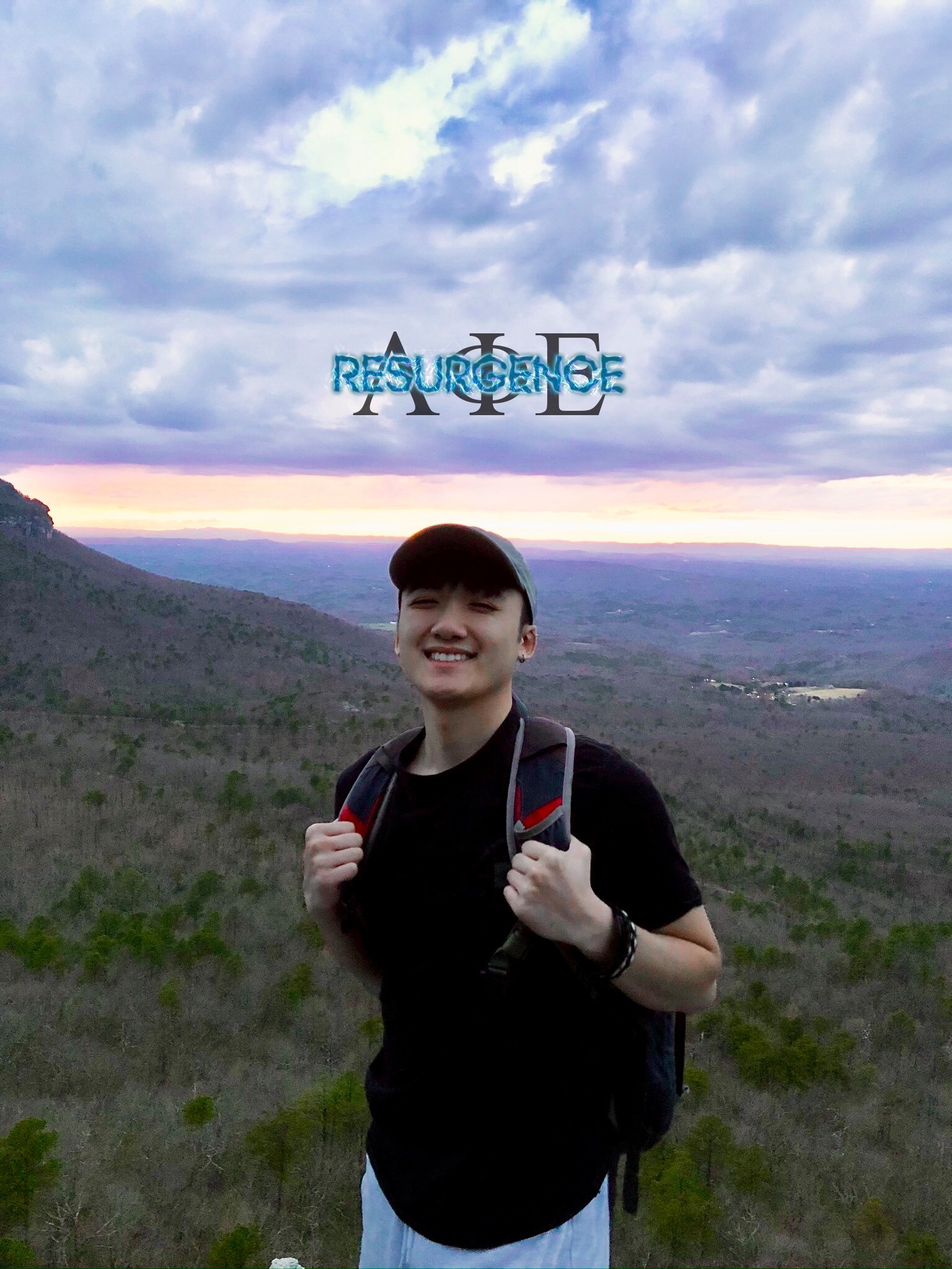
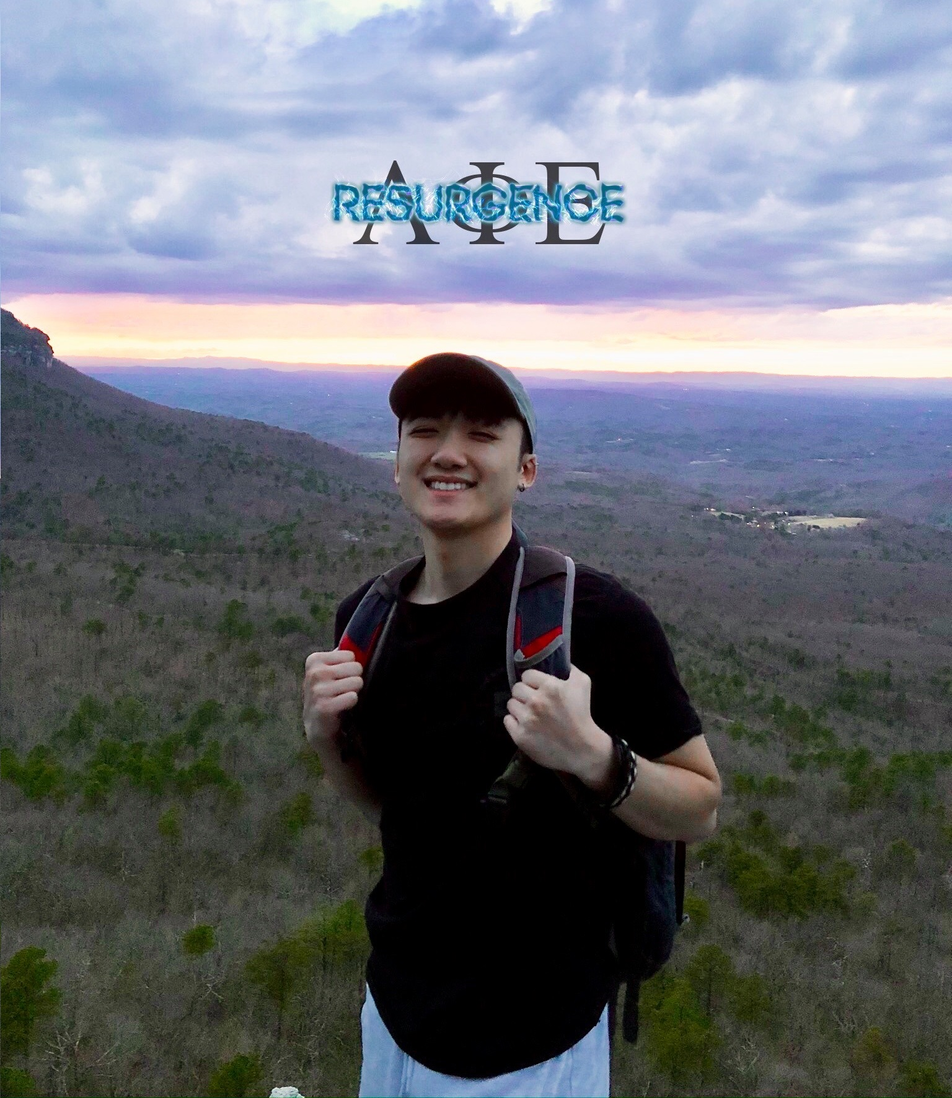
compatibility changes

diff --git a/public/assets/css/style.css b/public/assets/css/style.css
@@ -545,9 +545,15 @@ section {
 /*--------------------------------------------------------------
 # activeClass
 --------------------------------------------------------------*/
-.member img{
+.member {
+  height: 9.5vw;
+  width: 9.5vw;
+  overflow:hidden;
+}
+
+.member img {
   object-fit: cover;
-  object-position: 100% 20%;
+  object-position: 100% 10%;
 }
 
 .activeClass .activeClass-item {
@@ -628,6 +634,102 @@ section {
   .activeClass {
     margin: 30px 10px;
   }
+}
+
+.owl-stage-outer{
+  height:25vh;
+}
+
+.owl-stage{
+  height:25vh;
+}
+
+.member {
+  text-align: center;
+  margin-bottom: 20px;
+  background: #343a40;
+  position: relative;
+  overflow: hidden;
+}
+
+.member .member-info {
+  opacity: 0;
+  position: absolute;
+  bottom: 0;
+  top: 0;
+  left: 0;
+  right: 0;
+  transition: 0.2s;
+}
+
+.member .member-info-content {
+  position: absolute;
+  left: 50px;
+  right: 0;
+  bottom: 0;
+  transition: bottom 0.4s;
+}
+
+.member .member-info-content h4 {
+  font-weight: 700;
+  margin-bottom: 2px;
+  font-size: 18px;
+  color: #fff;
+}
+
+.member .member-info-content span {
+  font-style: italic;
+  display: block;
+  font-size: 13px;
+  color: #fff;
+}
+
+.member .social {
+  position: absolute;
+  left: -50px;
+  top: 0;
+  bottom: 0;
+  width: 50px;
+  transition: left ease-in-out 0.3s;
+  background: rgba(0, 0, 0, 0.5);
+  text-align: center;
+}
+
+.member .social a {
+  transition: color 0.3s;
+  display: block;
+  color: #fff;
+  margin-top: 15px;
+}
+
+.member .social a:hover {
+  color: #1bac91;
+}
+
+.member .social i {
+  font-size: 18px;
+  margin: 0 2px;
+}
+
+.member:hover .member-info {
+  background: linear-gradient(0deg, rgba(0, 0, 0, 0.9) 0%, rgba(0, 0, 0, 0.8) 20%, rgba(0, 212, 255, 0) 100%);
+  opacity: 1;
+  transition: 0.4s;
+}
+
+.member:hover .member-info-content {
+  bottom: 30px;
+  transition: bottom 0.4s;
+}
+
+.member:hover .social {
+  left: 0;
+  transition: left ease-in-out 0.3s;
+}
+
+.member img{
+  max-height: 20vh;
+  overflow: hidden;
 }
 
 /*--------------------------------------------------------------
@@ -891,93 +993,7 @@ section {
   
 }
 
-.member {
-  text-align: center;
-  margin-bottom: 20px;
-  background: #343a40;
-  position: relative;
-  overflow: hidden;
-}
 
-.member .member-info {
-  opacity: 0;
-  position: absolute;
-  bottom: 0;
-  top: 0;
-  left: 0;
-  right: 0;
-  transition: 0.2s;
-}
-
-.member .member-info-content {
-  position: absolute;
-  left: 50px;
-  right: 0;
-  bottom: 0;
-  transition: bottom 0.4s;
-}
-
-.member .member-info-content h4 {
-  font-weight: 700;
-  margin-bottom: 2px;
-  font-size: 18px;
-  color: #fff;
-}
-
-.member .member-info-content span {
-  font-style: italic;
-  display: block;
-  font-size: 13px;
-  color: #fff;
-}
-
-.member .social {
-  position: absolute;
-  left: -50px;
-  top: 0;
-  bottom: 0;
-  width: 50px;
-  transition: left ease-in-out 0.3s;
-  background: rgba(0, 0, 0, 0.5);
-  text-align: center;
-}
-
-.member .social a {
-  transition: color 0.3s;
-  display: block;
-  color: #fff;
-  margin-top: 15px;
-}
-
-.member .social a:hover {
-  color: #1bac91;
-}
-
-.member .social i {
-  font-size: 18px;
-  margin: 0 2px;
-}
-
-.member:hover .member-info {
-  background: linear-gradient(0deg, rgba(0, 0, 0, 0.9) 0%, rgba(0, 0, 0, 0.8) 20%, rgba(0, 212, 255, 0) 100%);
-  opacity: 1;
-  transition: 0.4s;
-}
-
-.member:hover .member-info-content {
-  bottom: 30px;
-  transition: bottom 0.4s;
-}
-
-.member:hover .social {
-  left: 0;
-  transition: left ease-in-out 0.3s;
-}
-
-.member img{
-  max-height: 20vh;
-  overflow: hidden;
-}
 
 /*--------------------------------------------------------------
 # Footer

diff --git a/public/homepage.html b/public/homepage.html
@@ -291,7 +291,7 @@
 
                     <div style="padding-right: 10%" class="activeClass-item">
                         <div class="member">
-                            <img src="lambdassitepics/brosPics/tj.jpg" class="img-fluid" alt="">
+                            <img src="lambdassitepics/brosPics/bchen.jpg" class="img-fluid" alt="">
                             <div class="member-info">
                                 <div class="member-info-content">
                                     <h4>Brandon Chen</h4>
@@ -521,9 +521,9 @@
         <!-- ======= resources Section ======= -->
         <section id="resources" class="resources">
             <div class="container">
-                <span class="SAStatement"> STANCE ON SEXUAL ASSAULT</span>
+                <span class="SAStatement"> STANCE ON SEXUAL ASSAULT</spa`n>
 
-                <img style="margin-left: auto; margin-right: auto; display: block" src="lambdassitepics/statementHeader.png">
+                <img style="margin-left: auto; margin-right: auto; display: block; width: 50vw" src="lambdassitepics/statementHeader.png">
                 <br>
                 As of August 26, 2020, the Lambda Phi Epsilon Associate Chapter at UNC Chapel Hill has been released
                 from its suspension by our International Board. We would like to thank all who spoke out and recognize
